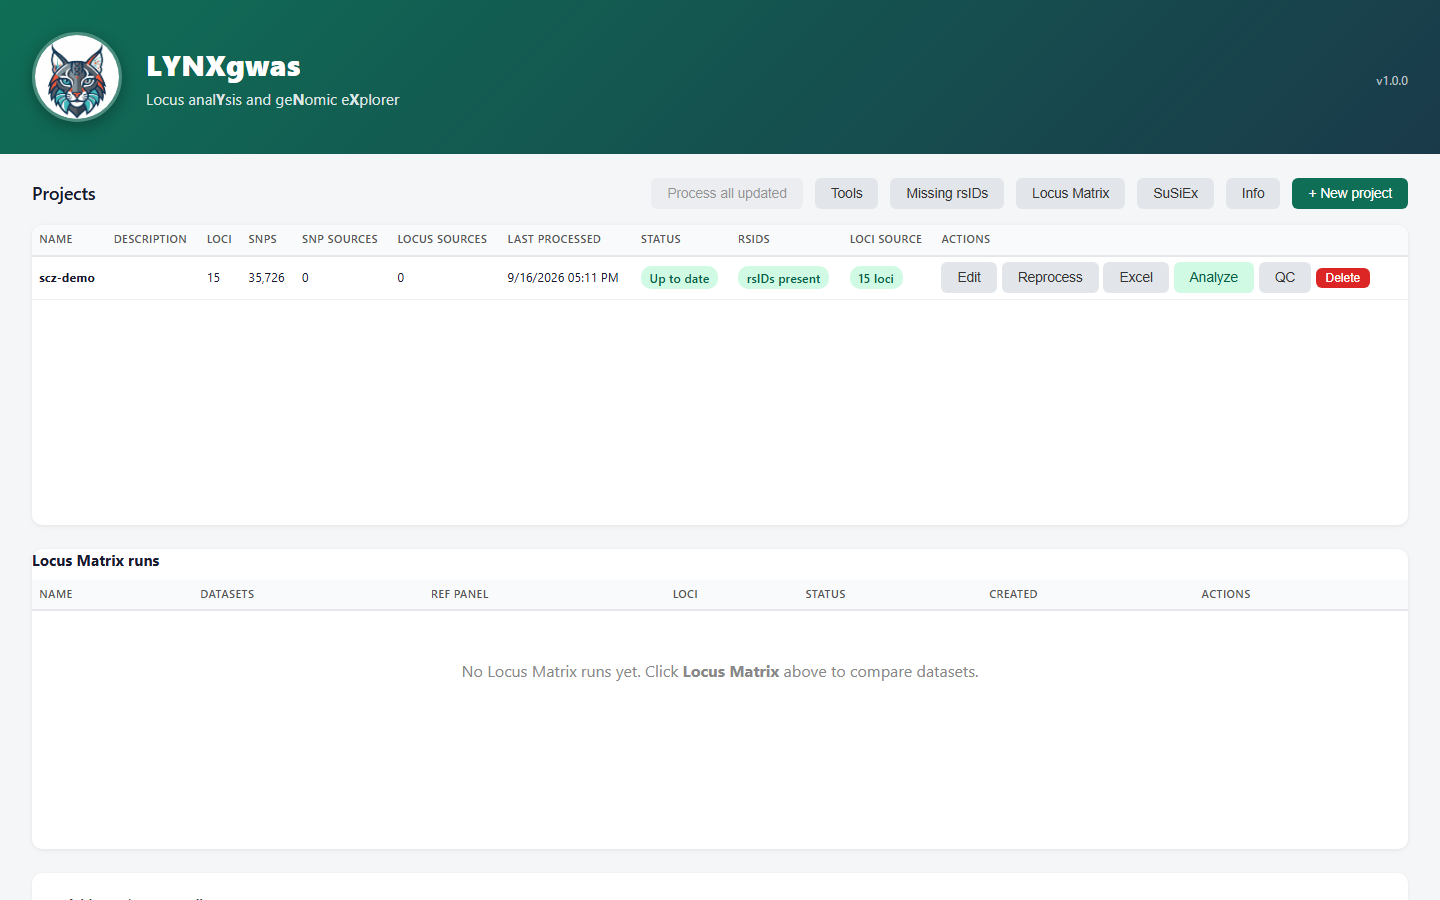
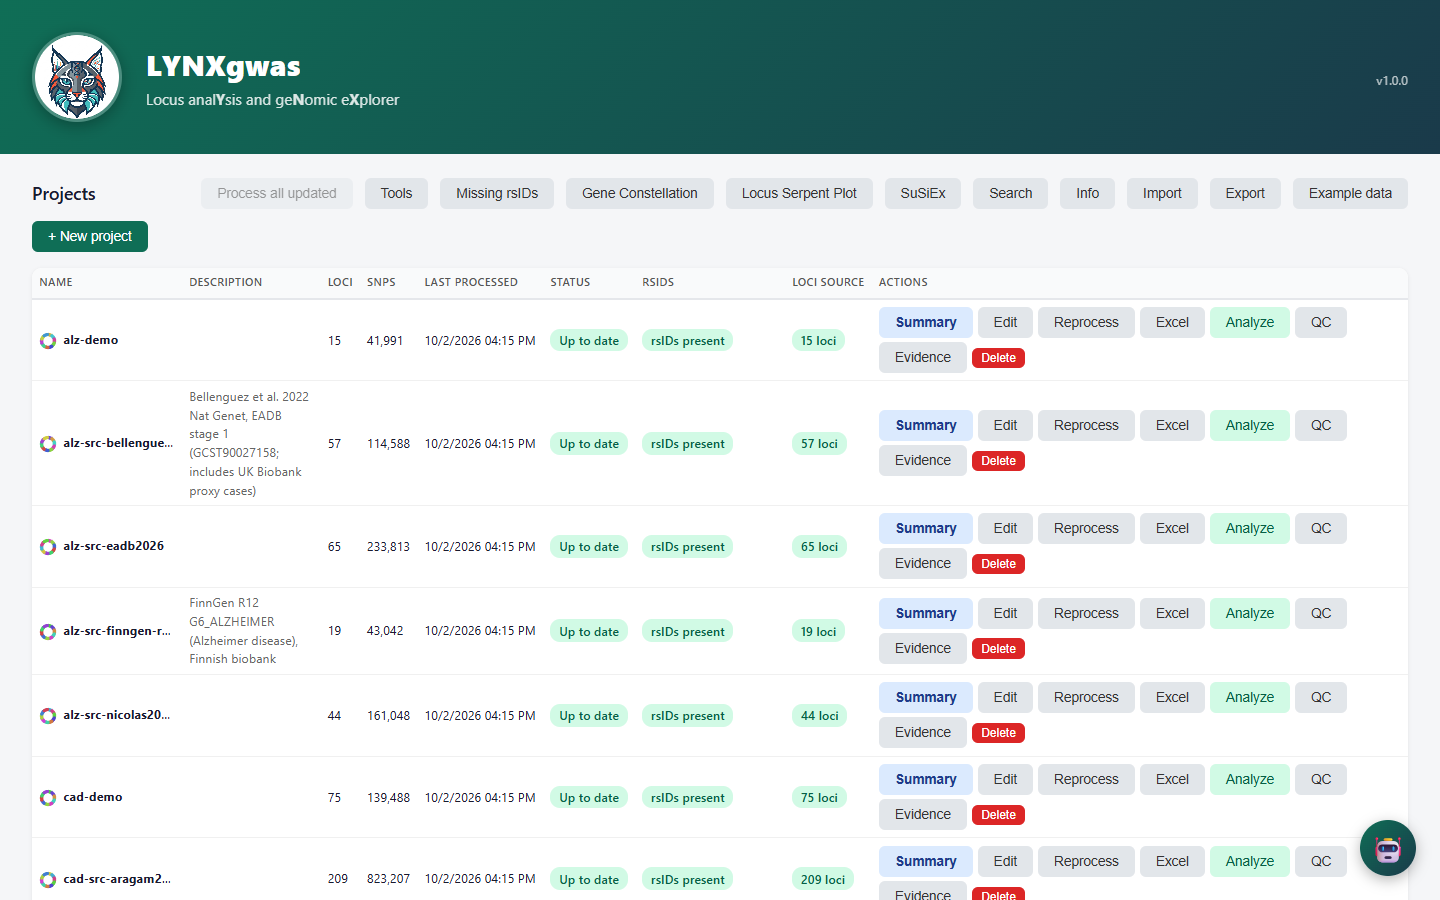
Release 0.6.0: causal-SNP ranking model 1.4, new README screenshots
- Causal-SNP ranking model 1.4: retrained with the MAGMA feature recomputed after the gene-lookup fix
  (held-out chromosomes: top-1 0.608, top-5 0.698, AP 0.493; the MAGMA weight goes from -0.33 to -0.06)
- README: new screenshots (home page, locus viewer, scE2G panel, project summary); the LD triangle
  on the plot's axis, intergenic MAGMA loci and the summary page described
- pip bundle regenerated

diff --git a/python/lynxgwas/__init__.py b/python/lynxgwas/__init__.py
@@ -1,1 +1,1 @@
-__version__ = "0.5.0"
+__version__ = "0.6.0"

diff --git a/README.md b/README.md
@@ -46,18 +46,30 @@ projects at once.
 
 ## Screenshots
 
-**Home page** — manage multiple GWAS projects, see status and locus/SNP counts at a glance:
+**Home page** — manage many GWAS projects, see their status and locus/SNP counts at a glance:
 
 ![LYNXgwas home page](https://raw.githubusercontent.com/AlsammanAlsamman/LYNXgwas/main/assets/screenshots/homepage.png)
 
-**Locus viewer** — Manhattan plot, gene track, and LD triangle for a single locus:
+**Locus viewer** — association plot, genes, regulatory marks, scE2G enhancer–gene links and the LD
+triangle, all on one genomic axis, with the fine-mapping and causal-rank results above:
 
 ![LYNXgwas locus viewer](https://raw.githubusercontent.com/AlsammanAlsamman/LYNXgwas/main/assets/screenshots/viewer.png)
 
-*Screenshots use real public data: the [PGC3 schizophrenia GWAS](https://doi.org/10.6084/m9.figshare.19426775)
-(Trubetskoy et al. 2022, [Nature](https://doi.org/10.1038/s41586-022-04434-5)) at the well-known
-CACNA1C locus (lead SNP rs2238057, p=8.5×10⁻²²), with LD from the 1000 Genomes Phase 3 EUR panel
-and gene annotation from GENCODE.*
+**Enhancer–gene links** — the element nearest the lead SNP, the genes it regulates, and the nearest
+element in each cell type:
+
+![scE2G enhancer-gene links for a locus](https://raw.githubusercontent.com/AlsammanAlsamman/LYNXgwas/main/assets/screenshots/sce2g.png)
+
+**Project summary** — what has run on which loci, heritability, quality control, and the
+project-wide fine-mapping, MAGMA and scE2G results:
+
+![LYNXgwas project summary](https://raw.githubusercontent.com/AlsammanAlsamman/LYNXgwas/main/assets/screenshots/summary.png)
+
+*Screenshots use real public data. The home page shows the article's 30 example datasets; the other three
+use the [PGC3 schizophrenia GWAS](https://doi.org/10.6084/m9.figshare.19426775)
+(Trubetskoy et al. 2022, [Nature](https://doi.org/10.1038/s41586-022-04434-5)), here at the well-known
+CACNA1C locus (lead SNP rs2238057, p=8.5×10⁻²²), with LD from the 1000 Genomes Phase 3 EUR panel,
+gene annotation from GENCODE and enhancer–gene links from scE2G.*
 
 ## Install
 
@@ -110,7 +122,9 @@ workspace or computer, with a progress bar, without touching projects that are a
 - Genome-wide QC triage: genomic inflation factor (λ<sub>GC</sub>), with an optional LDSC-intercept comparison to separate genuine polygenicity from confounding
 
 **LD & fine-mapping**
-- LD computation and pairwise LD triangles per locus (PLINK reference-panel subsetting under the hood)
+- LD computation and pairwise LD triangles per locus (PLINK reference-panel subsetting under the hood);
+  the triangle is drawn on the locus plot's genomic axis, so each SNP's column sits under its dot, and
+  zooming recomputes LD for the SNPs in view
 - **SuSiE** — Bayesian sum-of-single-effects fine-mapping with credible sets
 - **FINEMAP**-style Wakefield ABF fine-mapping for single-causal-variant loci
 - **GCTA-COJO** — conditional & joint SNP selection with an automatic reliability/artifact check
@@ -119,7 +133,8 @@ workspace or computer, with a progress bar, without touching projects that are a
 - **SuSiEx** — cross-ancestry joint fine-mapping across multiple LYNXgwas projects at once
 - **mvSuSiE** — joint fine-mapping of an aligned locus across datasets (within a disease, or across
   diseases whose credible sets overlap), with sample overlap estimated from null SNPs
-- **MAGMA** — per-locus gene-based test ranking the genes of each locus
+- **MAGMA** — per-locus gene-based test ranking the genes of each locus; a locus with no gene within
+  10 kb is reported as intergenic, with its nearest gene and distance
 - **Causal-SNP ranking** — one score per SNP from SuSiE/ABF/COJO, joint fine-mapping, CADD, LD score,
   histone peaks, coding position, TSS distance, MAGMA, and how the SNP replicates in the other
   datasets of the same disease (credible sets, PIPs, top SNP, significance, effect direction), with a
@@ -158,6 +173,7 @@ workspace or computer, with a progress bar, without touching projects that are a
 - Live locus editing: resize, split, create, and reorder loci without re-running the whole pipeline
 - Per-locus and whole-genome PDF export; full Excel export of all annotated SNPs
 - Multi-project management from a single home page, with per-project staleness tracking
+- A project summary page: which analyses have run on which loci, and the project-wide results
 
 ## Requirements
 
